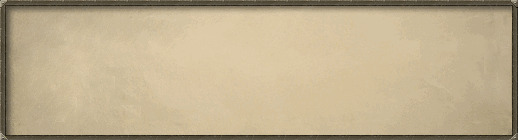
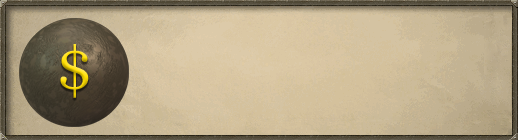
+paint and improvements to code

Changed region(s): [[0.0309, 0.1143, 0.2471, 0.9143]]

diff --git a/Cannonball Smelter/src/com/plaguedoctor/oldschoolscripts/cannonballsmelter/Main.java b/Cannonball Smelter/src/com/plaguedoctor/oldschoolscripts/cannonballsmelter/Main.java
@@ -13,7 +13,7 @@ import java.util.concurrent.TimeUnit;
 import javax.imageio.ImageIO;
 import javax.swing.JOptionPane;
  
-@ScriptManifest(author = "Plague Doctor", info = "Smelts cannonballs and banks them", name = "Cannonball Smelter", version = 0, logo = "")
+@ScriptManifest(author = "Plague Doctor", info = "Smelts cannonballs and banks them", name = "Cannonball Smelter", version = 0, logo = "http://i.imgur.com/LMPJVXx.png")
 public class Main extends Script {
 	
 	private Furnace selectedFurnace;	
@@ -57,8 +57,7 @@ public class Main extends Script {
     	if(timeSinceLastAnimating > 4000) // If its been more than 4 seconds.
     		isSmithing = false;
     	if(!hasRequiredItems()) // If our inventory is full, dont do anything, bank instead
-    	{
-    		//log("We are out of ore, or our ring of forging has disintegrated, or need to bank");
+    	{    		
     		isSmithing = false;
     		return Action.BANK;   		
     	}
@@ -127,8 +126,8 @@ public class Main extends Script {
 				{
 					status = "Selecting Make All";
 					smithWidget.interact("Make All");
-					status = "Smelting Cannonballs";
 					lastTimeNotAnimating = System.currentTimeMillis();
+					status = "Smelting Cannonballs";					
 					isSmithing = true;
 					getMouse().moveOutsideScreen();
 				}
@@ -151,7 +150,8 @@ public class Main extends Script {
 						if(furnace != null)
 						{
 							status = "Using Steel bar on Furnace";
-							furnace.interact("Use");							
+							furnace.interact("Use");
+							lastTimeNotAnimating = System.currentTimeMillis();
 						}
 					}
 				}
@@ -226,16 +226,20 @@ public class Main extends Script {
         {
             opacity = 1f;
         }
+        
+        int offsetX = 140;
+        int offsetY = 403;
+        
         g.setComposite(AlphaComposite.getInstance(AlphaComposite.SRC_OVER, opacity));
         g.setFont(runescape_chat_font);
         g.drawImage(paintBG, null, 1, 338);        
         g.setPaint(Color.blue);
-        g.drawString("Plague Doctor's Cannonball Smelter", 145 ,370);
+        g.drawString("Plague Doctor's Cannonball Smelter", 212 ,370);
         g.setPaint(Color.black);
-        g.drawString("Time Running: " + ft(runTime), 110, 425);
-        g.drawString("Cannonballs Smelted: " + ammoSmelted + " Cannonballs/h: " + ammoPerHour, 110, 440);
-        g.drawString("Profit: " + profit + " Profit/h: " + ammoProfitPerHour, 110, 455);
-        g.drawString("Status: " + status + ".", 110, 470);
+        g.drawString("Time Running: " + ft(runTime), offsetX, offsetY);
+        g.drawString("Cannonballs Smelted: " + ammoSmelted + " Cannonballs/h: " + ammoPerHour, offsetX, offsetY + 15);
+        g.drawString("Profit: " + profit + " Profit/h: " + ammoProfitPerHour, offsetX, offsetY + 30);
+        g.drawString("Status: " + status + ".", offsetX, offsetY + 45);
         
     }
     
